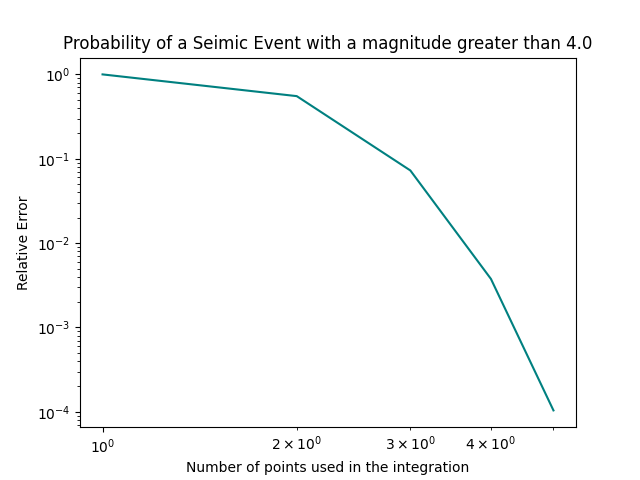
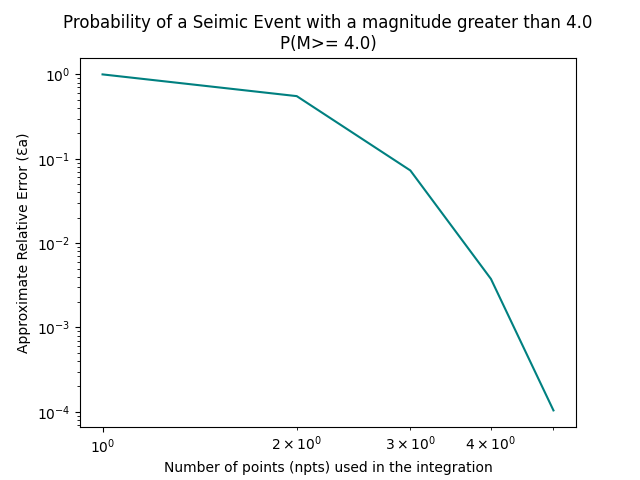
Touch ups on figures

Changed region(s): [[0.0938, 0.0312, 0.9375, 0.125], [0.25, 0.9375, 0.7812, 1.0], [0.0312, 0.2812, 0.0625, 0.75]]

diff --git a/examples/driver_probability.py b/examples/driver_probability.py
@@ -25,7 +25,6 @@ def main():
     #Calculate the probablitiy of a M > 4.0 event, lims upper bound is 4 while the mean of 0.5 is the lower bound
     for i in npts:
         new_integral = integrate_gauss(f, lims = [1.5, 4], npts = i)
-        #print(new_integral)
         eps_a = np.abs(new_integral - past_integral) / new_integral
         #Add the convergence of the integral to the array
         converged_integrals.append(new_integral)
@@ -35,9 +34,9 @@ def main():
         past_integral = new_integral
 
     plt.loglog(npts, relative_error, 'teal')
-    plt.ylabel("Relative Error")
-    plt.xlabel("Number of points used in the integration")
-    plt.title("Probability of a Seimic Event with a magnitude greater than 4.0")
+    plt.ylabel("Approximate Relative Error (Ɛa)")
+    plt.xlabel("Number of points (npts) used in the integration")
+    plt.title("Probability of a Seimic Event with a magnitude greater than 4.0""\nP(M>= 4.0)")
     plt.savefig("figures/probability_seismic_event_convergence.png")
     plt.close("all")
 
@@ -60,7 +59,6 @@ def main():
     
     for i in npts:
         new_integral = integrate_gauss(f, lims = [10.25, 10.35], npts = i)
-        #print(new_integral)
         eps_a = np.abs(new_integral - past_integral) / new_integral
         #Add the convergence of the integral to the array
         converged_integrals.append(new_integral)
@@ -69,10 +67,10 @@ def main():
         #Replace the old with the new integral, then move on to the next
         past_integral = new_integral
 
-    plt.loglog(npts, relative_error, 'teal')
-    plt.ylabel("Relative Error")
-    plt.xlabel("Number of points used in the integration")
-    plt.title("Probability that 10.25m <= Length <= 10.35m")
+    plt.loglog(npts, relative_error, 'Blue')
+    plt.ylabel("Approximate Relative Error (Ɛa)")
+    plt.xlabel("Number of points (npts) used in the integration")
+    plt.title("Probability that 10.25m <= Length <= 10.35m""\nP(10.25 <= L <= 10.35)")
     plt.savefig("figures/probability_length_interval_convergence.png")
     plt.close("all")
 

diff --git a/src/goph420_lab01/integration.py b/src/goph420_lab01/integration.py
@@ -45,7 +45,6 @@ def integrate_newton(x,f,alg = "trap"):
     #Checking alg's entered value will be through a function
     N = len(x)
     integral = 0.0
-    print(x[1] - x[0])
 #------------------------------------
     #Trap rule
     if alg == "trap":
@@ -157,12 +156,12 @@ def integrate_gauss(f, lims, npts = 3):
         tran_s_k = 0.5*(a + b)+ 0.5 * (b - a) * s_k[i]
         f_k = f(tran_s_k)
         transpoints.append(f_k)
-        print(transpoints)
+        
     
     for i, j in enumerate(c_k):
         wk = 0.5* (b - a) * c_k[i]
         transweights.append(wk)
-        print(transweights)
+        
 
     #Calculating the integral (sum of the product of the transformed weights and the function of the transformed points)
     integral = np.sum(np.array(transweights) * np.array(transpoints))

diff --git a/examples/driver_seismic.py b/examples/driver_seismic.py
@@ -69,10 +69,10 @@ def main():
 
 
     #Plot the figure -> curve of the convergence of each integration rule
-    plt.loglog(delta_a[1:], eps_trap, label = 'Trapezoid rule')
-    plt.loglog(delta_a[1:], eps_simp, label = "Simpson's rule")
-    plt.ylabel("Approximate Relative Error [eps_s]")
-    plt.xlabel("Sampling Interval [deltax]")
+    plt.loglog(delta_a[1:], eps_trap, label = 'Trapezoid rule', color = 'red')
+    plt.loglog(delta_a[1:], eps_simp, label = "Simpson's rule", color = 'purple')
+    plt.ylabel("Approximate Relative Error (Ɛa)")
+    plt.xlabel("Sampling Interval (Δt)")
     plt.legend()
     plt.savefig("figures/trap_simp_convergence.png")
     plt.close("all")
